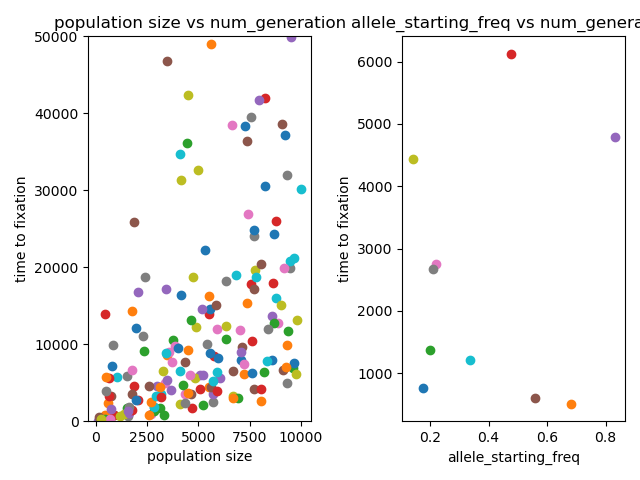
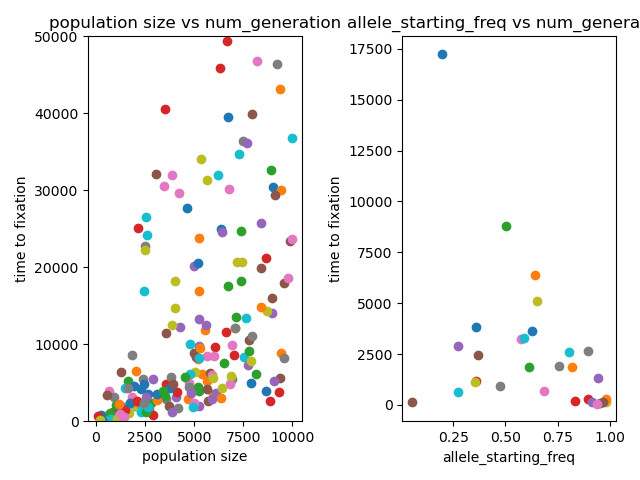
fix the exercise3

diff --git a/day4-homework/exercise3.py b/day4-homework/exercise3.py
@@ -49,7 +49,7 @@ ax1.set_title("population size vs num_generation")
 # generate multiple 
 
 
-for k in range(10):
+for k in range(30):
 	freq_hist_list = []
 	count_generation_list = []
 	population_size = 1000
